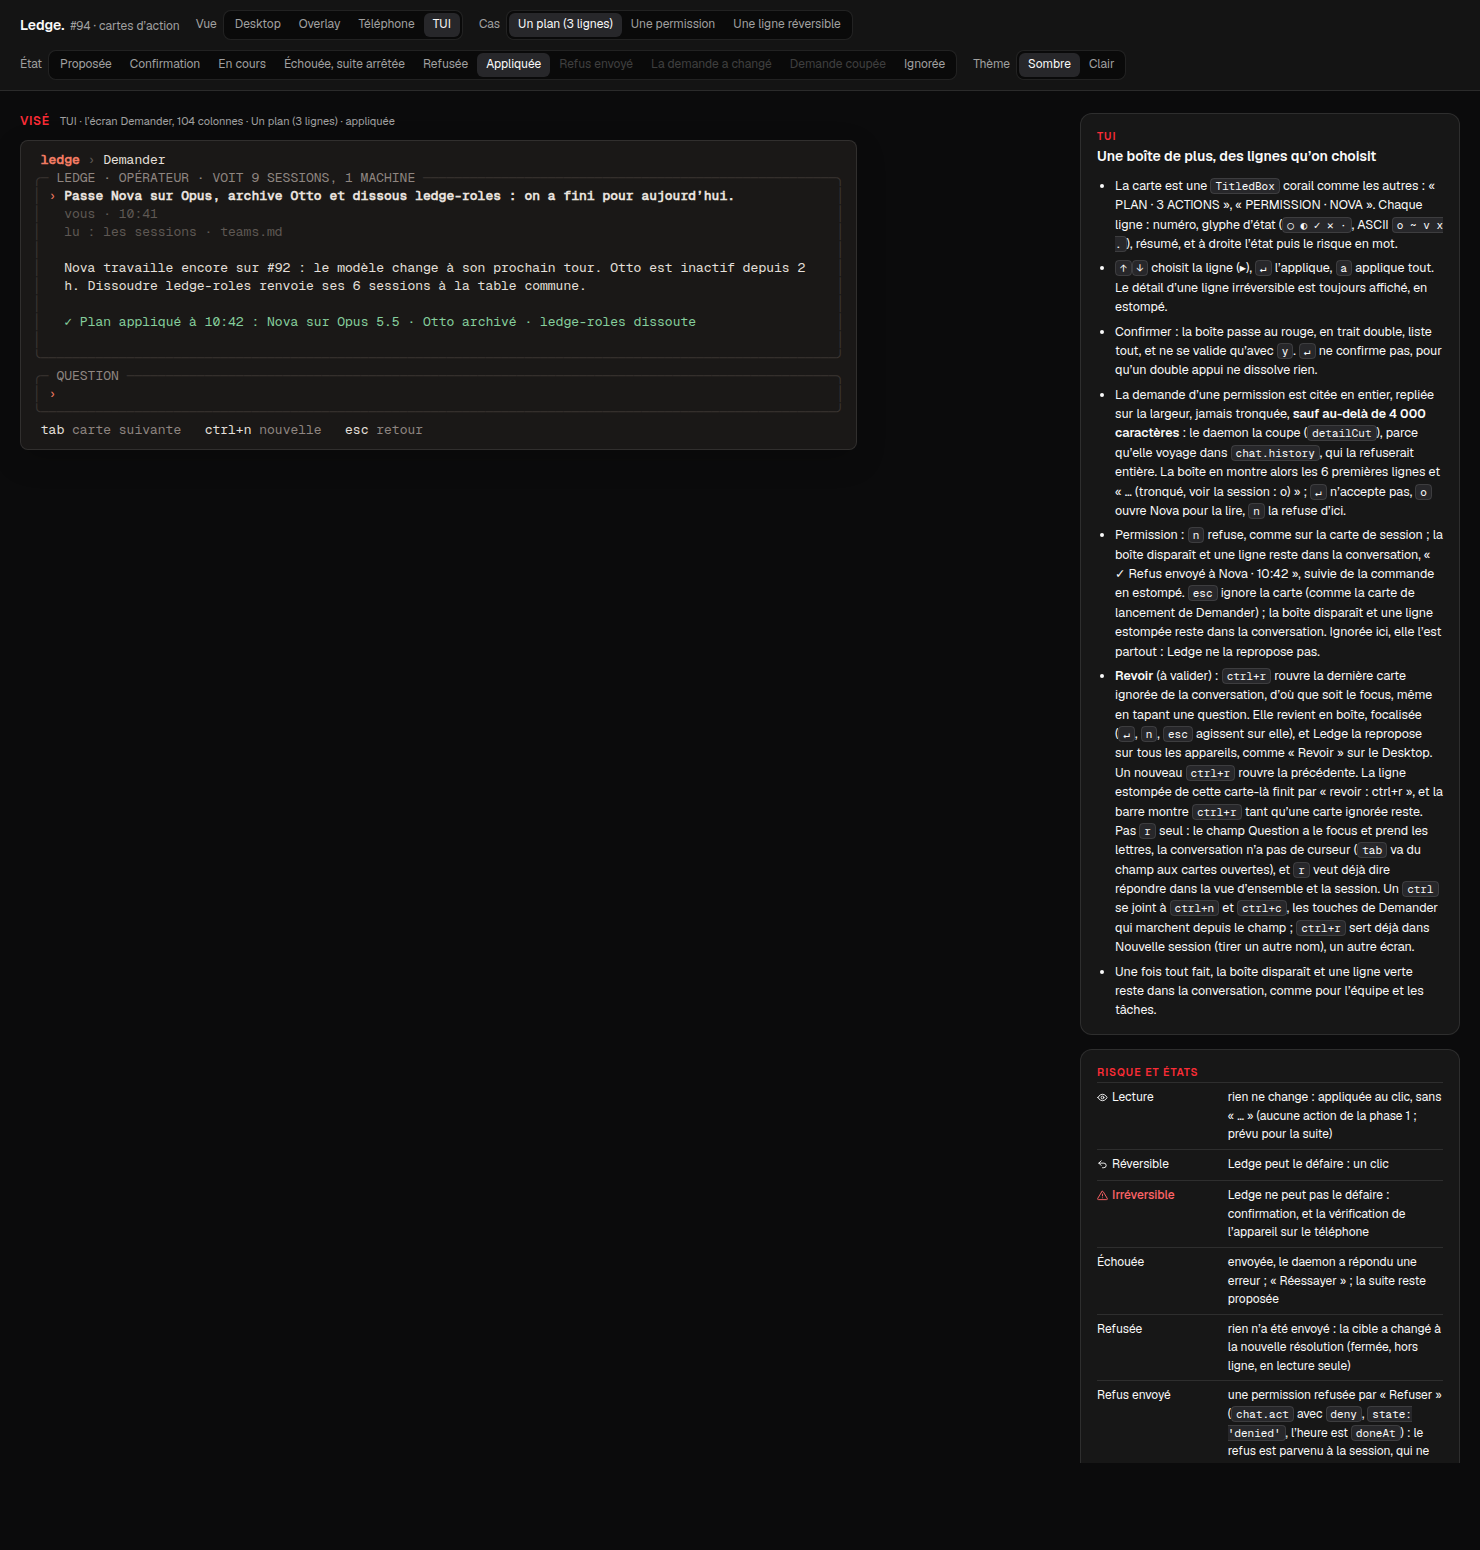
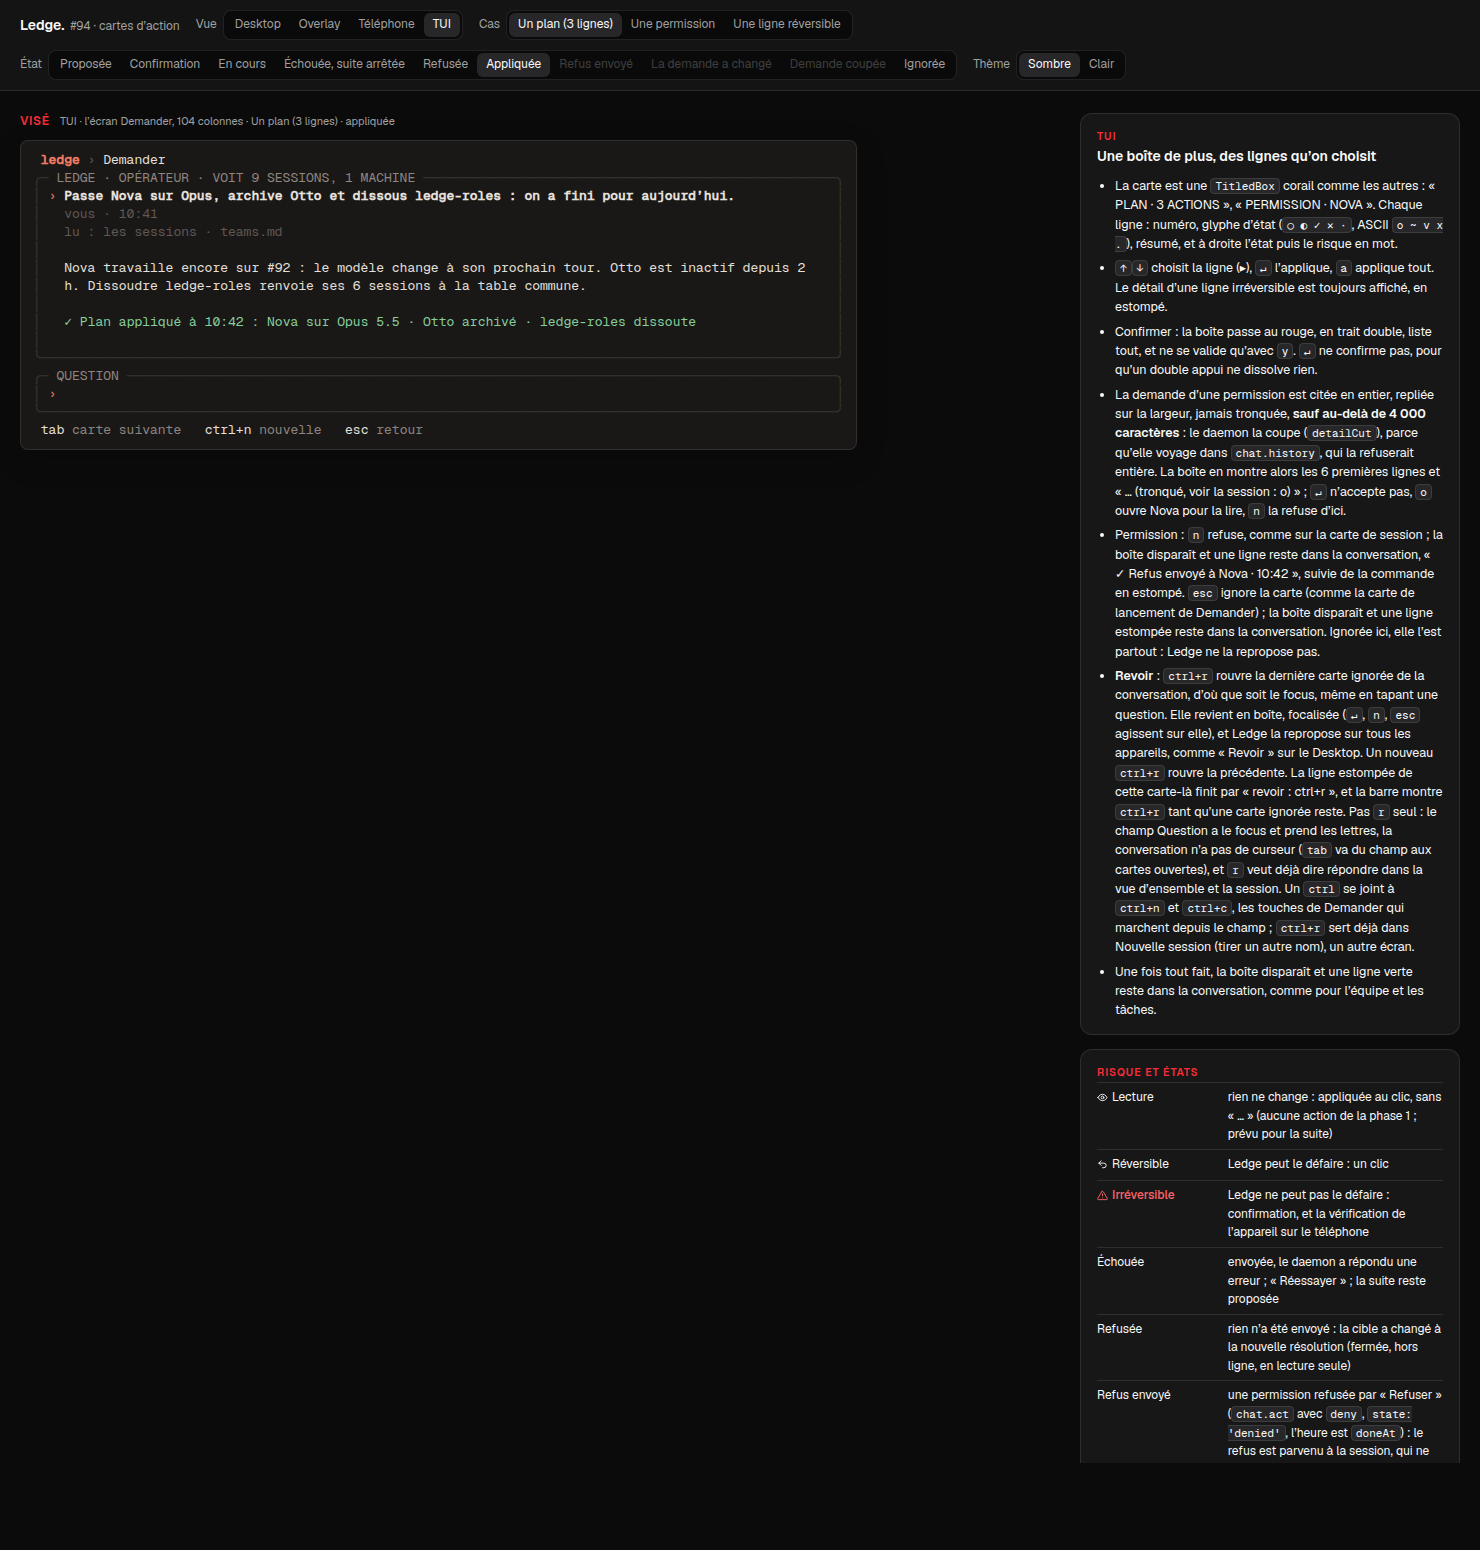
docs(mockups): action cards (#94) — ctrl+r to « Revoir » in the TUI, validated by the user
The point moves from « À valider » to « Tranché par l'utilisateur », and the TUI note loses
its « à valider »: the mockup is validated whole. The screens are unchanged; the 13 TUI shots
are redone for their notes column only.

Changed region(s): [[0.7459, 0.4335, 0.9635, 0.6194]]

diff --git a/docs/mockups/ledge-action-card.html b/docs/mockups/ledge-action-card.html
@@ -574,7 +574,7 @@ const NOTES = {
     <li>Confirmer : la boîte passe au rouge, en trait double, liste tout, et ne se valide qu’avec <kbd>y</kbd>. <kbd>↵</kbd> ne confirme pas, pour qu’un double appui ne dissolve rien.</li>
     <li>La demande d’une permission est citée en entier, repliée sur la largeur, jamais tronquée, <b>sauf au-delà de 4 000 caractères</b> : le daemon la coupe (<code>detailCut</code>), parce qu’elle voyage dans <code>chat.history</code>, qui la refuserait entière. La boîte en montre alors les 6 premières lignes et « … (tronqué, voir la session : o) » ; <kbd>↵</kbd> n’accepte pas, <kbd>o</kbd> ouvre Nova pour la lire, <kbd>n</kbd> la refuse d’ici.</li>
     <li>Permission : <kbd>n</kbd> refuse, comme sur la carte de session ; la boîte disparaît et une ligne reste dans la conversation, « ✓ Refus envoyé à Nova · 10:42 », suivie de la commande en estompé. <kbd>esc</kbd> ignore la carte (comme la carte de lancement de Demander) ; la boîte disparaît et une ligne estompée reste dans la conversation. Ignorée ici, elle l’est partout : Ledge ne la repropose pas.</li>
-    <li><b>Revoir</b> (à valider) : <kbd>ctrl+r</kbd> rouvre la dernière carte ignorée de la conversation, d’où que soit le focus, même en tapant une question. Elle revient en boîte, focalisée (<kbd>↵</kbd>, <kbd>n</kbd>, <kbd>esc</kbd> agissent sur elle), et Ledge la repropose sur tous les appareils, comme « Revoir » sur le Desktop. Un nouveau <kbd>ctrl+r</kbd> rouvre la précédente. La ligne estompée de cette carte-là finit par « revoir : ctrl+r », et la barre montre <kbd>ctrl+r</kbd> tant qu’une carte ignorée reste. Pas <kbd>r</kbd> seul : le champ Question a le focus et prend les lettres, la conversation n’a pas de curseur (<kbd>tab</kbd> va du champ aux cartes ouvertes), et <kbd>r</kbd> veut déjà dire répondre dans la vue d’ensemble et la session. Un <kbd>ctrl</kbd> se joint à <kbd>ctrl+n</kbd> et <kbd>ctrl+c</kbd>, les touches de Demander qui marchent depuis le champ ; <kbd>ctrl+r</kbd> sert déjà dans Nouvelle session (tirer un autre nom), un autre écran.</li>
+    <li><b>Revoir</b> : <kbd>ctrl+r</kbd> rouvre la dernière carte ignorée de la conversation, d’où que soit le focus, même en tapant une question. Elle revient en boîte, focalisée (<kbd>↵</kbd>, <kbd>n</kbd>, <kbd>esc</kbd> agissent sur elle), et Ledge la repropose sur tous les appareils, comme « Revoir » sur le Desktop. Un nouveau <kbd>ctrl+r</kbd> rouvre la précédente. La ligne estompée de cette carte-là finit par « revoir : ctrl+r », et la barre montre <kbd>ctrl+r</kbd> tant qu’une carte ignorée reste. Pas <kbd>r</kbd> seul : le champ Question a le focus et prend les lettres, la conversation n’a pas de curseur (<kbd>tab</kbd> va du champ aux cartes ouvertes), et <kbd>r</kbd> veut déjà dire répondre dans la vue d’ensemble et la session. Un <kbd>ctrl</kbd> se joint à <kbd>ctrl+n</kbd> et <kbd>ctrl+c</kbd>, les touches de Demander qui marchent depuis le champ ; <kbd>ctrl+r</kbd> sert déjà dans Nouvelle session (tirer un autre nom), un autre écran.</li>
     <li>Une fois tout fait, la boîte disparaît et une ligne verte reste dans la conversation, comme pour l’équipe et les tâches.</li></ul></div>`,
   risks: `<div class="note"><h3>Risque et états</h3><table>
     <tr><td>${riskChip('read')}</td><td>rien ne change : appliquée au clic, sans « … » (aucune action de la phase 1 ; prévu pour la suite)</td></tr>
@@ -598,10 +598,9 @@ const OPEN = `<div class="note"><h3>Tranché par l’utilisateur</h3><ol>
   <li>Ignorer vaut <b>sur tous les appareils</b> : Ledge le sait et ne repropose pas la carte.</li>
   <li><b>« ✓ Refus envoyé »</b> tel que dessiné : en gris, pas en vert, et la ligne devient « Refuser la demande de <b>Nova</b> ».</li>
   <li><b>« Demande coupée »</b> (<code>detailCut</code>) tel que dessiné : une demande coupée ne s’accepte pas depuis la carte, ni sur le PC ni au téléphone ; elle se refuse d’ici et s’accepte dans la session (« Ouvrir Nova », « À accepter sur le PC »).</li>
-  <li>Les textes des <b>22 codes de refus</b>, en fr et en en : <code>ledge-action-card-codes.md</code>.</li></ol>
-  <p style="margin:8px 0 0">La maquette est validée en entier par l’utilisateur, sauf le point ci-dessous.</p></div>
-  <div class="note"><h3>À valider</h3><ol>
-  <li><b>Revoir une carte ignorée dans la TUI</b> : <kbd>ctrl+r</kbd> rouvre la dernière carte ignorée de la conversation, focalisée, et Ledge la repropose partout ; un nouveau <kbd>ctrl+r</kbd> rouvre la précédente (vue TUI, état Ignorée).</li></ol></div>
+  <li>Les textes des <b>22 codes de refus</b>, en fr et en en : <code>ledge-action-card-codes.md</code>.</li>
+  <li><b>Revoir une carte ignorée dans la TUI</b> : <kbd>ctrl+r</kbd> rouvre la dernière carte ignorée de la conversation, focalisée, et Ledge la repropose partout ; un nouveau <kbd>ctrl+r</kbd> rouvre la précédente.</li></ol>
+  <p style="margin:8px 0 0">La maquette est validée en entier par l’utilisateur.</p></div>
   <div class="note"><h3>Suite non retenue pour l’instant</h3><ul>
   <li><b>Charger le texte complet à la demande</b>, comme le corps d’une demande au téléphone, au lieu de l’envoyer dans la carte. La carte pourrait alors citer toute la demande et proposer « Accepter… ». Pas retenu : c’est plus de travail pour un cas rare.</li></ul></div>`;
 
